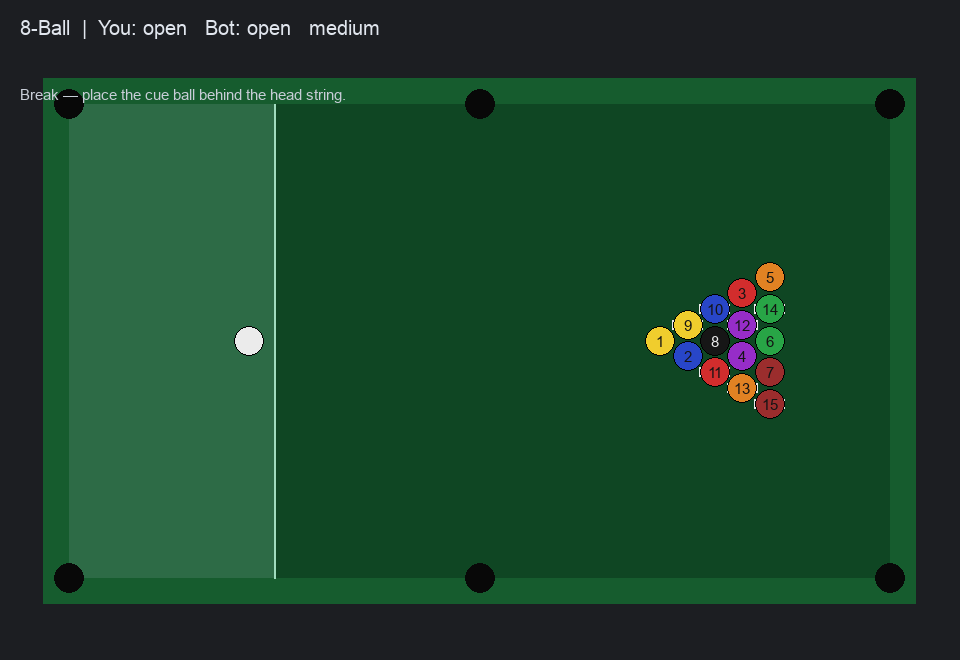
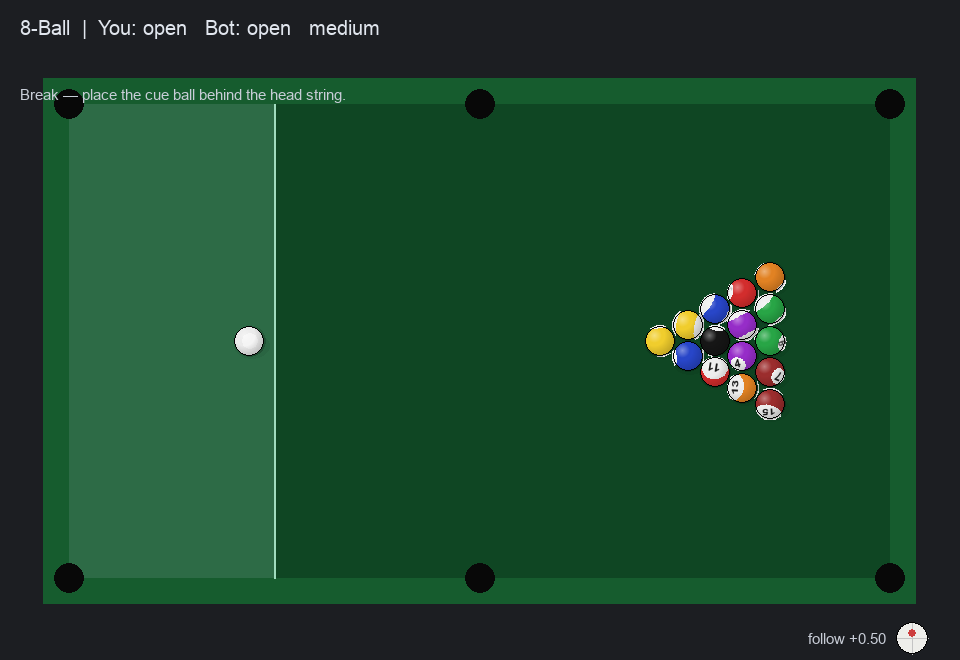
docs: the port, and the two things that only broke once they were ported

diff --git a/docs/REA_findings.md b/docs/REA_findings.md
@@ -320,6 +320,35 @@
 
 > 教训：**投影正确 ≠ 可读**。判据是从"渲染一整个角度扫掠、再逐帧看图"里得到的，不是从公式里推的。
 
+### 11.12 桌面版同步（2026-10-20）
+
+网页版定稿后回头把 `src/` 补齐，目标是"同样的物理、同样的画面"，不做简化版：
+
+- **物理**：四元数朝向 + 台呢滑移摩擦 + 球-球切向摩擦 + 库边摩擦（含 §12.4 的符号修复）全部照搬，
+  `shoot(ball, angle, speed, spin=(english, follow))` 直接由击球点算 `w = 2.5·h·v/r`。
+- **规则层**：`take_shot/launch` 透传 `spin`；摆球与母球复位时**清零角速度**，否则上一杆留在母球上的
+  侧塞会跟着带到下一杆（`x/y` 清零但 `w` 没清，这类 bug 在小球速下看不出来）。
+- **开球朝向**：`rack_orientation(n)` 与 JS 端逐字一致，否则整盘球都拿白极对着镜头，七颗条纹球看起来
+  像备用母球。
+
+**渲染上两个"移植特有"的坑**
+
+1. **缩放的是字身框，不是墨迹框**。Canvas 端是 `ctx.font = 0.95·sinR·k px` 再把切基当变换矩阵，
+   所以 `px/py` 描述的是 em 框；pygame 第一版把**墨迹框**缩放到同一尺寸，等于把字放大约 1.4 倍。
+   后果不是"字大一点"，而是转过 60° 的球上号码越出轮廓、印到了台呢上（截图里 8 号那颗特别明显）。
+   拿 288 个朝向扫一遍量化：旧版墨迹最远 **1.068 r**，按 em 框（实心 0.486 / 竖直 0.736 em，逐字量）
+   缩放后最远 **0.997 r**，也就是轮廓线本身。
+2. **`pygame.transform.rotate()` 是最近邻重采样**。9–10 px 高的数字一转就糊成一团，"4" 会变成实心块。
+   改成 4× 超采样：按目标尺寸 4 倍渲染 → `rotozoom` 平滑旋转 → 缩回原尺寸取平均；同时字形按
+   **目标字高直接渲染**（不是把 72 px 母版一次缩到 9 px，那样笔画宽度只剩 1 px 灰边）。
+   另外把 `NUMERAL_MIN_FACING` 从 0.16 提到和网页一致的 **0.30**——0.16 时会画出"错的数字"，比没有更糟。
+
+**看起来像球，而不是贴纸**：加了每半径缓存的径向明暗（高光左上、右下压暗）和接触阴影（网页版同一
+组参数：偏移 0.20r/0.34r、0.96r×0.70r、α=.30）。12–16 px 的球只涂平色块时，打印的朝向信息全被
+"扁圆片"的观感吃掉了。缓存按半径存，不随帧重建。
+
+**成本**：16 颗球渲染 **1.77 ms/帧**（加明暗/阴影前 1.48），物理 **0.130 ms/子步**，60 fps 余量充足。
+
 
 ## 12. 引擎复核：bloob 到底跑的是什么（2026-10-20）
 

diff --git a/README.md b/README.md
@@ -128,6 +128,14 @@ for the break:
 
 ![desktop break placement](docs/screenshots/break_line_desktop.png)
 
+The physics port is the whole model, not a simplified one: the pygame build has the same angular momentum,
+cloth slip, throw, spin-bent cushions and the corrected cushion friction below, and the same two quaternion
+driven prints on every ball. Spin is set with the keyboard instead of a dial — **↑ / ↓** follow and draw,
+**← / →** english, **C** back to dead centre, **N** back to the default — and the cue-ball face in the corner
+shows where the tip would land:
+
+![desktop rolling print](docs/screenshots/rolling_desktop.png)
+
 ## Layout
 
 ```
@@ -305,6 +313,11 @@ The JavaScript port surfaced three genuine bugs that also affected the Python bu
   foreshortening floor came from.
 - **Pygame build (same rules)** — the identical scenarios run against `src/`: head string, refusal message,
   and both the soft and the hard stroke, plus a headless `SDL_VIDEODRIVER=dummy` render of the break frame.
+  Porting the rolling model over to it added the same cushion cases (45° bank, passivity, opposite side-spin
+  deflection) and a **print sweep**: every ball at 288 orientations, checking that no ink lands outside the
+  silhouette. The first port failed it at 1.068 r, because it sized the numeral by its ink box instead of the
+  font's em box; sizing by em (as Canvas does) brings the worst case back to 0.997 r, i.e. the outline.
+  Rendering 16 balls costs 1.8 ms/frame and a physics substep 0.13 ms.
 - Screenshots above are real renders captured with headless Chrome.
 
 The bot search is a **generator** that is drained in ~7 ms slices per frame, so choosing a shot never freezes
